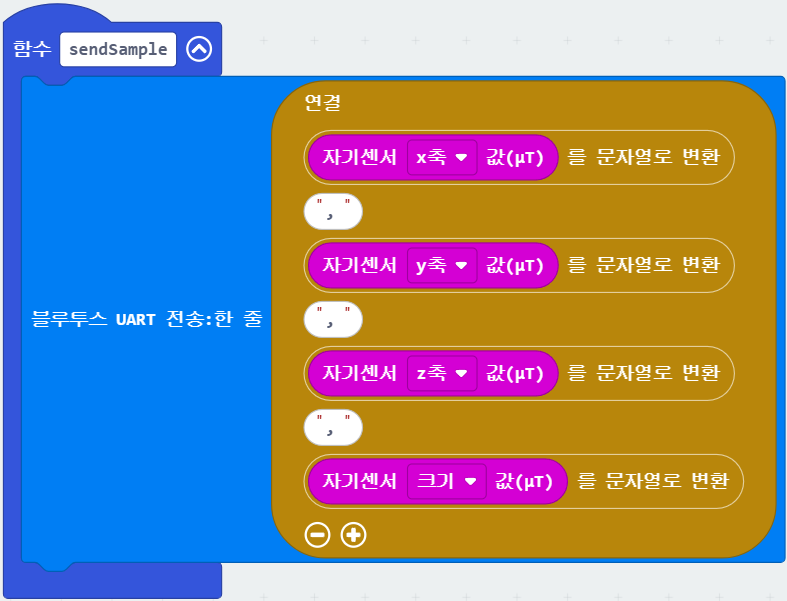
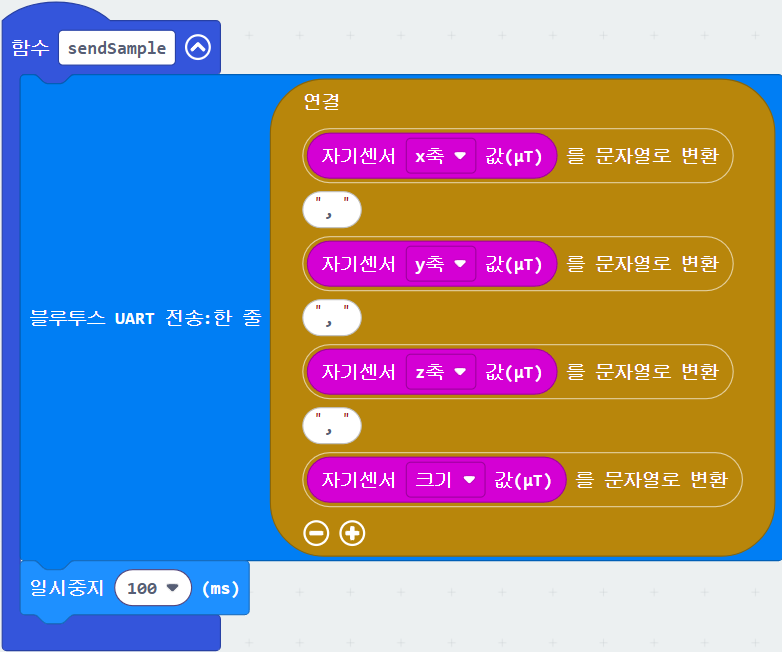
Handle partial CSV samples in sensor parsing

diff --git a/js/utils/parseSample.js b/js/utils/parseSample.js
@@ -10,6 +10,24 @@ const toNumber = (value) => {
   return Number.isFinite(number) ? number : null
 }
 
+const buildErrorMessage = ({ receivedCount, expectedCount, invalidFields }) => {
+  const messages = []
+  if (receivedCount < expectedCount) {
+    messages.push(
+      `CSV 값 개수가 실험 설정과 다릅니다. 받은 값 ${receivedCount}개, 설정 필드 ${expectedCount}개. 부족한 필드는 —로 표시됩니다.`
+    )
+  }
+  if (receivedCount > expectedCount) {
+    messages.push(
+      `CSV 값 개수가 실험 설정과 다릅니다. 받은 값 ${receivedCount}개, 설정 필드 ${expectedCount}개. 초과 값은 무시했습니다.`
+    )
+  }
+  if (invalidFields.length > 0) {
+    messages.push(`CSV 값에 숫자가 아닌 항목이 있습니다. ${invalidFields.join(', ')} 필드는 —로 표시됩니다.`)
+  }
+  return messages.join('\n')
+}
+
 export const parseSample = (raw, fields = []) => {
   if (typeof raw !== 'string') {
     return null
@@ -20,22 +38,37 @@ export const parseSample = (raw, fields = []) => {
   }
 
   const segments = raw.split(',').map((part) => part.trim())
-  if (!Array.isArray(fields) || segments.length !== fields.length) {
-    return null
-  }
-
-  const values = segments.map(toNumber)
-  if (values.some((value) => value === null)) {
+  if (!Array.isArray(fields) || fields.length === 0) {
     return null
   }
 
   const sample = {
     timestamp: Date.now(),
   }
+  const invalidFields = []
 
   fields.forEach((field, index) => {
-    sample[field.key] = values[index]
+    if (index >= segments.length) {
+      return
+    }
+
+    const value = toNumber(segments[index])
+    if (value === null) {
+      invalidFields.push(field.label || field.key || `필드 ${index + 1}`)
+      return
+    }
+
+    sample[field.key] = value
   })
 
-  return sample
+  const errorMessage = buildErrorMessage({
+    receivedCount: segments.length,
+    expectedCount: fields.length,
+    invalidFields,
+  })
+
+  return {
+    sample,
+    errorMessage: errorMessage || undefined,
+  }
 }

diff --git a/js/state.js b/js/state.js
@@ -45,7 +45,7 @@ const reducer = (state, action) => {
         latestSample: action.sample,
         history: appendSample(state.history, action.sample, state.config.historyLimit),
         lastUpdatedAt: action.sample.timestamp,
-        errorMessage: undefined,
+        errorMessage: action.options?.preserveError ? state.errorMessage : undefined,
         noticeMessage: undefined,
       }
     case 'setFields': {
@@ -123,7 +123,7 @@ export const constants = {
 export const actions = {
   setStatus: (status) => ({ type: 'setStatus', status }),
   setDevice: (payload) => ({ type: 'setDevice', payload }),
-  setSample: (sample) => ({ type: 'setSample', sample }),
+  setSample: (sample, options = {}) => ({ type: 'setSample', sample, options }),
   setFields: (fields) => ({ type: 'setFields', fields }),
   setError: (message) => ({ type: 'setError', message }),
   setNotice: (message, tone = 'info') => ({ type: 'setNotice', message, tone }),

diff --git a/docs/firmware-guide.html b/docs/firmware-guide.html
@@ -584,6 +584,16 @@
               </div>
             </div>
           </div>
+          <div class="doc-note">
+            <svg class="note-icon" viewBox="0 0 24 24" width="20" height="20" stroke="currentColor" stroke-width="2" fill="none" stroke-linecap="round" stroke-linejoin="round">
+              <circle cx="12" cy="12" r="10"></circle>
+              <line x1="12" y1="16" x2="12" y2="12"></line>
+              <line x1="12" y1="8" x2="12.01" y2="8"></line>
+            </svg>
+            <div class="note-content">
+              <code>sendSample</code> 함수 안의 일시중지 시간(기본값 100ms)을 조절하여 데이터 전송 간격을 더 짧거나 길게 바꿀 수 있습니다.
+            </div>
+          </div>
         </section>
 
         <section class="card doc-section">

diff --git a/js/ui/connection-panel.js b/js/ui/connection-panel.js
@@ -209,10 +209,13 @@ export const initConnectionPanel = () => {
       store.dispatch(actions.setDevice({ device, service, characteristic: txCharacteristic }))
 
       await startNotifications((value) => {
-        const sample = parseSample(value, store.getState().config.fields)
-        if (sample) {
+        const result = parseSample(value, store.getState().config.fields)
+        if (result?.sample) {
           clearFirstSampleTimer()
-          store.dispatch(actions.setSample(sample))
+          store.dispatch(actions.setSample(result.sample, { preserveError: !!result.errorMessage }))
+          if (result.errorMessage) {
+            store.dispatch(actions.setError(result.errorMessage))
+          }
         }
       })
 

diff --git a/js/ui/sensor-chart.js b/js/ui/sensor-chart.js
@@ -113,7 +113,7 @@ export const initSensorChart = () => {
       return {
         label: config?.label ?? fieldKey,
         fieldKey,
-        data: samples.map((sample) => sample[fieldKey]),
+        data: samples.map((sample) => sample[fieldKey] ?? null),
         borderColor: config?.color ?? '#38bdf8',
         backgroundColor: `${config?.color ?? '#38bdf8'}33`,
         tension: 0.25,
